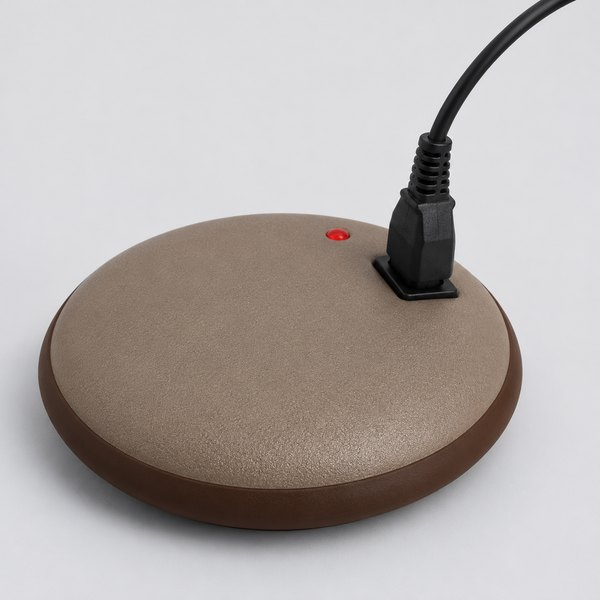
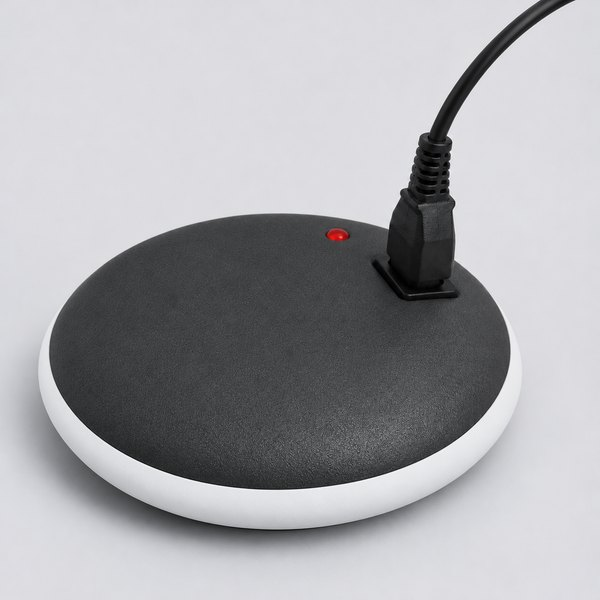
v3: cutout product images, realistic hotpack, image and copy edits

diff --git a/v3/index.html b/v3/index.html
@@ -1170,13 +1170,13 @@ section.ask-sec .hotglow{opacity:.55}
 section.ask-sec .play .hotglow{animation:ask-hp 3.2s ease-in-out infinite}
 @keyframes ask-hp{0%,100%{opacity:.35}50%{opacity:1}}
 section.ask-sec .skinheat{opacity:0}
-section.ask-sec .play .skinheat{animation:ask-sh 6s ease-in-out infinite}
-@keyframes ask-sh{0%{opacity:0}25%,55%{opacity:1}85%,100%{opacity:.1}}
+section.ask-sec .play .skinheat{animation:ask-sh .5s ease-in-out infinite}
+@keyframes ask-sh{0%,100%{opacity:0}50%{opacity:1}}
 section.ask-sec .wave{stroke-dasharray:6 10;opacity:0}
 section.ask-sec .play .wave{opacity:.9;animation:ask-wv 1.4s linear infinite}
 @keyframes ask-wv{to{stroke-dashoffset:-32}}
 section.ask-sec .deep{opacity:0}
-section.ask-sec .play .deep{animation:ask-dp 6s ease-in-out infinite}
+section.ask-sec .play .deep{animation:ask-sh .5s ease-in-out infinite}
 @keyframes ask-dp{0%{opacity:.05}45%,100%{opacity:1}}
 section.ask-sec .coldtxt{font-size:11px;font-weight:700;fill:#4F7499}
 section.ask-sec .warmtxt{font-size:11px;font-weight:800;fill:#fff}
@@ -1365,7 +1365,7 @@ section.life-sec{aspect-ratio:auto;min-height:calc(min(100vw,480px)*1.6);padding
 /* ===== v2 additions ===== */
 section.ask-sec .lead.lead-em{margin:-30px 0 60px;color:#fff;font-size:22px;font-weight:700}
 section.ask-sec .ask-foot{margin-top:6px;padding:0 16px;text-align:center;font-size:13px;line-height:1.7;color:#8A8A8A}
-.up1-sec .u1-fn{order:4;align-self:center;margin-top:8px;text-align:center;font-size:12.5px;line-height:1.6;color:#8A8A8A;word-break:keep-all}
+.up1-sec .u1-fn{order:3;align-self:center;margin-top:8px;text-align:center;font-size:12.5px;line-height:1.6;color:#8A8A8A;word-break:keep-all}
 .step-sec .sk-msg{margin-top:16px;font-size:14px;line-height:1.75;color:#555;word-break:keep-all}
 .step-sec .sk-msg b{color:#111}
 .cause-body.cb-small{margin-top:12px;font-size:12.5px;color:#8A8A8A}
@@ -1389,6 +1389,11 @@ section.ask-sec .ask-foot{margin-top:6px;padding:0 16px;text-align:center;font-s
 .qna-list .card p + p{margin-top:8px}
 
 /* ===== v3 additions ===== */
+.cause-sec .cz-nk img[src*="nk_pack"],.cause-sec .cz-nk img[src*="nk_core"],.cause-sec .cz-nk img[src*="nk_mat"]{height:auto;width:210px;top:4px}
+.cause-sec .cz-nk img[src*="nk_charge3"]{width:185px;top:-2px}
+.cause-sec .cz-nk img[src*="nk_pack"]{width:225px;top:20px}
+.cause-sec .cz-nk img[src*="nk_mat"]{width:235px;top:14px}
+.cause-sec .cz-head .cz-nk img[src*="nk_hotpack2"]{width:140px;left:6px;top:4px}
 .how-steps{margin-top:12px;text-align:center;font-size:16px;font-weight:700;color:var(--text-black);letter-spacing:-.02em}
 .how-txt h3 small{font-size:15px;font-weight:500;color:var(--text-gray)}
 .spic-sec .sp-tag,.sp-item .sp-tag{margin-top:6px;display:inline-block;padding:3px 9px;border:1px solid rgba(255,255,255,.55);border-radius:20px;font-size:11px;font-weight:700;color:#fff}
@@ -1490,7 +1495,7 @@ section.ask-sec .ask-foot{margin-top:16px;color:rgba(255,255,255,.7)}
     <svg viewBox="0 0 440 330" aria-label="왼쪽은 뜨거운 핫팩이 피부 겉면만 데우고 심부는 그대로인 모습, 오른쪽은 발열이 없는 마이온도 밴드에서 원적외선이 심부까지 전해져 심부가 따뜻해지는 모습의 개념도">
       <defs>
         <linearGradient id="skinHot" x1="0" y1="0" x2="0" y2="1"><stop offset="0" stop-color="#E5322B" stop-opacity=".95"/><stop offset=".75" stop-color="#E5322B" stop-opacity=".88"/><stop offset="1" stop-color="#E5322B" stop-opacity="0"/></linearGradient>
-        <filter id="askMute"><feColorMatrix type="saturate" values=".08"/><feComponentTransfer><feFuncR type="linear" slope=".85" intercept=".1"/><feFuncG type="linear" slope=".85" intercept=".1"/><feFuncB type="linear" slope=".85" intercept=".1"/></feComponentTransfer></filter>
+        <filter id="askMute"><feColorMatrix type="saturate" values=".4"/><feComponentTransfer><feFuncR type="linear" slope=".9" intercept=".06"/><feFuncG type="linear" slope=".9" intercept=".06"/><feFuncB type="linear" slope=".9" intercept=".06"/></feComponentTransfer></filter>
         <radialGradient id="glow"><stop offset="0" stop-color="#FF7A45" stop-opacity=".9"/><stop offset="1" stop-color="#FF7A45" stop-opacity="0"/></radialGradient>
         <radialGradient id="deepWarm" cx=".5" cy=".55" r=".75"><stop offset="0" stop-color="#F0483A"/><stop offset=".7" stop-color="#E5322B" stop-opacity=".95"/><stop offset="1" stop-color="#D02A26" stop-opacity=".9"/></radialGradient>
         <linearGradient id="epiG" x1="0" y1="0" x2="0" y2="1"><stop offset="0" stop-color="#F8E3D8"/><stop offset="1" stop-color="#EFC6B5"/></linearGradient>
@@ -1893,27 +1898,27 @@ section.ask-sec .ask-foot{margin-top:16px;color:rgba(255,255,255,.7)}
 </section>
 <section class="cause-sec">
   <div class="cz-card rv-up">
-    <div class="cz-head"><h3>물주머니는</h3><span class="cz-nk cz-ph"><img src="img/cz_water.jpg" alt="빨간 고무 물주머니" loading="lazy"></span></div>
+    <div class="cz-head"><h3>물주머니는</h3><span class="cz-nk"><img src="img/nk_water3.png" alt="베이지 실리콘 물주머니" loading="lazy"></span></div>
     <div class="cz-row"><div class="cz-txt"><svg class="zi" viewBox="0 0 48 48" fill="none" stroke="currentColor" stroke-width="1.4" stroke-linecap="round" stroke-linejoin="round" aria-hidden="true"><path d="M20.5 31.2V9.5a3.5 3.5 0 0 1 7 0v21.7a7.2 7.2 0 1 1-7 0z"/><path d="M28 13h2.2M28 17h1.4M28 21h2.2M28 25h1.4" stroke-width="1"/><path d="M22.2 10v10" stroke-width=".8" opacity=".45"/><rect class="zi-merc" x="23" y="13" width="2" height="22" rx="1" fill="currentColor" stroke="none"/><circle cx="24" cy="37" r="4.4" fill="currentColor" stroke="none"/><circle cx="22.6" cy="35.6" r="1.1" fill="#fff" stroke="none" opacity=".55"/><path class="zi-down" d="M38 13v12m-3.2-3.2L38 25l3.2-3.2"/></svg><p class="cz-q">“물 끓여서 담고 버리는 과정이 번거로웠어요”</p><span class="cz-src">11번가 구매 후기</span></div></div>
   </div>
   <div class="cz-card cz-r rv-up">
-    <div class="cz-head"><h3>찜질팩은</h3><span class="cz-nk cz-ph"><img src="img/cz_pack.jpg" alt="전자레인지용 찜질팩" loading="lazy"></span></div>
+    <div class="cz-head"><h3>찜질팩은</h3><span class="cz-nk"><img src="img/nk_pack.png" alt="전자레인지용 찜질팩" loading="lazy"></span></div>
     <div class="cz-row"><div class="cz-txt"><svg class="zi" viewBox="0 0 48 48" fill="none" stroke="currentColor" stroke-width="1.4" stroke-linecap="round" stroke-linejoin="round" aria-hidden="true"><path d="M20.5 31.2V9.5a3.5 3.5 0 0 1 7 0v21.7a7.2 7.2 0 1 1-7 0z"/><path d="M28 13h2.2M28 17h1.4M28 21h2.2M28 25h1.4" stroke-width="1"/><path d="M22.2 10v10" stroke-width=".8" opacity=".45"/><rect class="zi-merc" x="23" y="13" width="2" height="22" rx="1" fill="currentColor" stroke="none"/><circle cx="24" cy="37" r="4.4" fill="currentColor" stroke="none"/><circle cx="22.6" cy="35.6" r="1.1" fill="#fff" stroke="none" opacity=".55"/><path class="zi-down" d="M38 13v12m-3.2-3.2L38 25l3.2-3.2"/></svg><p class="cz-q">“데워 봐야 금방 식어서, 전자레인지를 몇 번씩 왔다 갔다 해요”</p><span class="cz-src">찜질팩 구매 후기 재구성</span></div></div>
   </div>
   <div class="cz-card rv-up">
-    <div class="cz-head"><h3>충전식 온열기는</h3><span class="cz-nk cz-ph"><img src="img/cz_charge.jpg" alt="충전식 온열기" loading="lazy"></span></div>
+    <div class="cz-head"><h3>충전식 온열기는</h3><span class="cz-nk"><img src="img/nk_charge3.png" alt="충전식 온열기" loading="lazy"></span></div>
     <div class="cz-row"><div class="cz-txt"><svg class="zi" viewBox="0 0 48 48" fill="none" stroke="currentColor" stroke-width="1.4" stroke-linecap="round" stroke-linejoin="round" aria-hidden="true"><path d="M20.5 31.2V9.5a3.5 3.5 0 0 1 7 0v21.7a7.2 7.2 0 1 1-7 0z"/><path d="M28 13h2.2M28 17h1.4M28 21h2.2M28 25h1.4" stroke-width="1"/><path d="M22.2 10v10" stroke-width=".8" opacity=".45"/><rect class="zi-merc" x="23" y="13" width="2" height="22" rx="1" fill="currentColor" stroke="none"/><circle cx="24" cy="37" r="4.4" fill="currentColor" stroke="none"/><circle cx="22.6" cy="35.6" r="1.1" fill="#fff" stroke="none" opacity=".55"/><path class="zi-down" d="M38 13v12m-3.2-3.2L38 25l3.2-3.2"/></svg><p class="cz-q">“계속 충전해야 하는 게 번거롭고, 들고 다니기 무거워요”</p><span class="cz-src">찜질기 사용 후기 재구성</span></div></div>
   </div>
   <div class="cz-card cz-r rv-up">
-    <div class="cz-head"><h3>전기형 찜질매트는</h3><span class="cz-nk cz-ph"><img src="img/cz_mat.jpg" alt="전기 찜질매트를 배에 두르고 누운 모습" loading="lazy"></span></div>
+    <div class="cz-head"><h3>전기형 찜질매트는</h3><span class="cz-nk"><img src="img/nk_mat.png" alt="전원선이 달린 전기 찜질매트" loading="lazy"></span></div>
     <div class="cz-row"><div class="cz-txt"><svg class="zi" viewBox="0 0 48 48" fill="none" stroke="currentColor" stroke-width="1.4" stroke-linecap="round" stroke-linejoin="round" aria-hidden="true"><path d="M20.5 31.2V9.5a3.5 3.5 0 0 1 7 0v21.7a7.2 7.2 0 1 1-7 0z"/><path d="M28 13h2.2M28 17h1.4M28 21h2.2M28 25h1.4" stroke-width="1"/><path d="M22.2 10v10" stroke-width=".8" opacity=".45"/><rect class="zi-merc" x="23" y="13" width="2" height="22" rx="1" fill="currentColor" stroke="none"/><circle cx="24" cy="37" r="4.4" fill="currentColor" stroke="none"/><circle cx="22.6" cy="35.6" r="1.1" fill="#fff" stroke="none" opacity=".55"/><path class="zi-down" d="M38 13v12m-3.2-3.2L38 25l3.2-3.2"/></svg><p class="cz-q">“콘센트 전선 때문에 일하거나 집안일할 때 못 쓰고, 침대에서만 쓰게 돼요”</p><span class="cz-src">찜질기 사용 후기 재구성</span></div></div>
   </div>
   <div class="cz-card rv-up">
-    <div class="cz-head"><h3>일회용 핫팩은</h3><span class="cz-nk cz-ph"><img src="img/cz_hotpack.jpg" alt="일회용 핫팩" loading="lazy"></span></div>
+    <div class="cz-head"><h3>일회용 핫팩은</h3><span class="cz-nk"><img src="img/nk_hotpack2.png" alt="일회용 핫팩" loading="lazy"></span></div>
     <div class="cz-row"><div class="cz-txt"><svg class="zi" viewBox="0 0 48 48" fill="none" stroke="currentColor" stroke-width="1.4" stroke-linecap="round" stroke-linejoin="round" aria-hidden="true"><path d="M20.5 31.2V9.5a3.5 3.5 0 0 1 7 0v21.7a7.2 7.2 0 1 1-7 0z"/><path d="M28 13h2.2M28 17h1.4M28 21h2.2M28 25h1.4" stroke-width="1"/><path d="M22.2 10v10" stroke-width=".8" opacity=".45"/><rect class="zi-merc" x="23" y="13" width="2" height="22" rx="1" fill="currentColor" stroke="none"/><circle cx="24" cy="37" r="4.4" fill="currentColor" stroke="none"/><circle cx="22.6" cy="35.6" r="1.1" fill="#fff" stroke="none" opacity=".55"/><path class="zi-down" d="M38 13v12m-3.2-3.2L38 25l3.2-3.2"/></svg><p class="cz-q">“이게 하루에 하나씩 쓰다 보니까 쓰레기 양이 많더라고요. 그리고 저온 화상이 걱정돼요”</p><span class="cz-src">손난로 구매 후기 재구성</span></div></div>
   </div>
   <div class="cz-card cz-r rv-up">
-    <div class="cz-head"><h3>심부 발열기는</h3><span class="cz-nk cz-ph"><img src="img/cz_core.jpg" alt="발 온열기" loading="lazy"></span></div>
+    <div class="cz-head"><h3>심부 발열기는</h3><span class="cz-nk"><img src="img/nk_core.png" alt="발 온열기" loading="lazy"></span></div>
     <div class="cz-row"><div class="cz-txt"><svg class="zi" viewBox="0 0 48 48" fill="none" stroke="currentColor" stroke-width="1.4" stroke-linecap="round" stroke-linejoin="round" aria-hidden="true"><path d="M20.5 31.2V9.5a3.5 3.5 0 0 1 7 0v21.7a7.2 7.2 0 1 1-7 0z"/><path d="M28 13h2.2M28 17h1.4M28 21h2.2M28 25h1.4" stroke-width="1"/><path d="M22.2 10v10" stroke-width=".8" opacity=".45"/><rect class="zi-merc" x="23" y="13" width="2" height="22" rx="1" fill="currentColor" stroke="none"/><circle cx="24" cy="37" r="4.4" fill="currentColor" stroke="none"/><circle cx="22.6" cy="35.6" r="1.1" fill="#fff" stroke="none" opacity=".55"/><path class="zi-down" d="M38 13v12m-3.2-3.2L38 25l3.2-3.2"/></svg><p class="cz-q">“심부를 올려 준다고 해서 비싸게 샀는데, 사용이 불편해서 손이 잘 안 가요”</p></div></div>
   </div>
   
@@ -1951,7 +1956,7 @@ section.ask-sec .ask-foot{margin-top:16px;color:rgba(255,255,255,.7)}
   </div>
 
   <div class="burn rv-up" data-play>
-    <svg class="bfig bx" viewBox="0 0 400 300" role="img" aria-label="뜨거운 온열 제품의 높은 열이 피부 겉면에서 멈춰 겉면에만 화상이 생기고, 심부는 그대로인 모습의 개념도" font-family="Pretendard,sans-serif"><defs><linearGradient id="bxHot" x1="0" x2="1"><stop offset="0" stop-color="#FF7A45"/><stop offset=".6" stop-color="#E8484F"/><stop offset="1" stop-color="#B8323F"/></linearGradient><linearGradient id="bxBurn" x1="1" x2="0"><stop offset="0" stop-color="#D62E2E" stop-opacity=".8"/><stop offset=".4" stop-color="#FF5A3D" stop-opacity=".4"/><stop offset="1" stop-color="#FF5A3D" stop-opacity="0"/></linearGradient><linearGradient id="bxCool" x1="0" x2="1"><stop offset="0" stop-color="#7FA6CC" stop-opacity=".55"/><stop offset=".8" stop-color="#7FA6CC" stop-opacity=".25"/><stop offset="1" stop-color="#7FA6CC" stop-opacity="0"/></linearGradient></defs><rect width="400" height="300" fill="url(#hAir)"/><g clip-path="url(#hBody)"><use href="#hTissue" x="0" y="0" width="400" height="300"/><rect class="bxc" x="0" y="0" width="160" height="300" fill="url(#bxCool)"/><rect class="bxb" x="140" y="0" width="80" height="300" fill="url(#bxBurn)"/><ellipse class="bxbl" style="animation-delay:0.00s" cx="200" cy="40" rx="9" ry="16" fill="#6E1520" opacity=".45"/><ellipse class="bxbl" style="animation-delay:0.10s" cx="200" cy="86" rx="9" ry="16" fill="#6E1520" opacity=".45"/><ellipse class="bxbl" style="animation-delay:0.20s" cx="200" cy="132" rx="9" ry="16" fill="#6E1520" opacity=".45"/><ellipse class="bxbl" style="animation-delay:0.30s" cx="200" cy="178" rx="9" ry="16" fill="#6E1520" opacity=".45"/><ellipse class="bxbl" style="animation-delay:0.40s" cx="200" cy="224" rx="9" ry="16" fill="#6E1520" opacity=".45"/><ellipse class="bxbl" style="animation-delay:0.50s" cx="200" cy="270" rx="9" ry="16" fill="#6E1520" opacity=".45"/></g><path d="M214 0 C220 60 210 120 216 180 C222 240 212 280 216 300" stroke="#F6CDBE" stroke-width="7" fill="none"/><path d="M214 0 C220 60 210 120 216 180 C222 240 212 280 216 300" stroke="#C97F70" stroke-width="1.2" fill="none" transform="translate(3.5 0)"/><g><ellipse class="bxbl" style="animation-delay:0.00s" cx="205" cy="24" rx="5" ry="12" fill="rgba(255,240,225,.85)" stroke="#B8323F" stroke-width="1"/><ellipse class="bxbl" style="animation-delay:0.08s" cx="206" cy="57" rx="5" ry="8" fill="rgba(255,240,225,.85)" stroke="#B8323F" stroke-width="1"/><ellipse class="bxbl" style="animation-delay:0.16s" cx="203" cy="82" rx="6" ry="12" fill="rgba(255,240,225,.85)" stroke="#B8323F" stroke-width="1"/><ellipse class="bxbl" style="animation-delay:0.24s" cx="203" cy="115" rx="5" ry="12" fill="rgba(255,240,225,.85)" stroke="#B8323F" stroke-width="1"/><ellipse class="bxbl" style="animation-delay:0.32s" cx="205" cy="149" rx="6" ry="8" fill="rgba(255,240,225,.85)" stroke="#B8323F" stroke-width="1"/><ellipse class="bxbl" style="animation-delay:0.40s" cx="205" cy="172" rx="5" ry="8" fill="rgba(255,240,225,.85)" stroke="#B8323F" stroke-width="1"/><ellipse class="bxbl" style="animation-delay:0.48s" cx="205" cy="211" rx="6" ry="8" fill="rgba(255,240,225,.85)" stroke="#B8323F" stroke-width="1"/><ellipse class="bxbl" style="animation-delay:0.56s" cx="205" cy="233" rx="6" ry="12" fill="rgba(255,240,225,.85)" stroke="#B8323F" stroke-width="1"/><ellipse class="bxbl" style="animation-delay:0.64s" cx="203" cy="266" rx="7" ry="10" fill="rgba(255,240,225,.85)" stroke="#B8323F" stroke-width="1"/></g><g filter="url(#hGlow)"><circle class="bxp" style="animation-delay:0.00s" cx="230" cy="22" r="3.6" fill="#FF6A3D"/><circle class="bxp" style="animation-delay:0.37s" cx="230" cy="44" r="3.6" fill="#FF6A3D"/><circle class="bxp" style="animation-delay:0.74s" cx="230" cy="66" r="3.6" fill="#FF6A3D"/><circle class="bxp" style="animation-delay:1.11s" cx="230" cy="88" r="3.6" fill="#FF6A3D"/><circle class="bxp" style="animation-delay:1.48s" cx="230" cy="110" r="3.6" fill="#FF6A3D"/><circle class="bxp" style="animation-delay:0.25s" cx="230" cy="132" r="3.6" fill="#FF6A3D"/><circle class="bxp" style="animation-delay:0.62s" cx="230" cy="154" r="3.6" fill="#FF6A3D"/><circle class="bxp" style="animation-delay:0.99s" cx="230" cy="176" r="3.6" fill="#FF6A3D"/><circle class="bxp" style="animation-delay:1.36s" cx="230" cy="198" r="3.6" fill="#FF6A3D"/><circle class="bxp" style="animation-delay:0.13s" cx="230" cy="220" r="3.6" fill="#FF6A3D"/><circle class="bxp" style="animation-delay:0.50s" cx="230" cy="242" r="3.6" fill="#FF6A3D"/><circle class="bxp" style="animation-delay:0.87s" cx="230" cy="264" r="3.6" fill="#FF6A3D"/><circle class="bxp" style="animation-delay:1.24s" cx="230" cy="286" r="3.6" fill="#FF6A3D"/></g><image href="img/nk_hotpack.png" x="219" y="24" width="90" height="256" preserveAspectRatio="none"/><g font-size="36" font-weight="900" fill="#24141A" text-anchor="middle"><text x="264" y="140">핫</text><text x="264" y="184">팩</text></g><g stroke="#FF7A45" stroke-width="2" fill="none" stroke-linecap="round" class="bhr"><path d="M322 130c5-4-5-8 0-13"/><path d="M322 170c5-4-5-8 0-13"/><path d="M322 210c5-4-5-8 0-13"/></g><g class="bxt"><rect x="90" y="30" width="108" height="32" rx="16" fill="#24141A"/><path d="M110 38.5l-6.3 11a1.4 1.4 0 0 0 1.2 2.1h12.6a1.4 1.4 0 0 0 1.2-2.1l-6.3-11a1.4 1.4 0 0 0-2.4 0Z" fill="#fff"/><path d="M111.2 42.5v4M111.2 49.3v.1" stroke="#24141A" stroke-width="1.6" stroke-linecap="round"/><text x="125" y="51" font-size="13" font-weight="800" fill="#fff">피부 화상</text></g><g class="bxk"><rect x="14" y="186" width="124" height="28" rx="14" fill="#1E2A38" fill-opacity=".8"/><text x="76" y="204.5" text-anchor="middle" font-size="11.5" font-weight="800" fill="#fff">심부는 그대로</text></g><g font-size="10.5" font-weight="700" fill="#3B2A2E"><path d="M207 16 L316 16" stroke="#7B6A6E" stroke-width=".8" stroke-dasharray="2 2"/><text x="319" y="19">표피</text><path d="M300 76 L316 76" stroke="#7B6A6E" stroke-width=".8" stroke-dasharray="2 2"/><text x="319" y="74">아주 높은 열</text><text x="319" y="88" font-weight="500" fill="#7A6C71">핫팩·찜질기</text></g></svg>
+    <svg class="bfig bx" viewBox="0 0 400 300" role="img" aria-label="뜨거운 온열 제품의 높은 열이 피부 겉면에서 멈춰 겉면에만 화상이 생기고, 심부는 그대로인 모습의 개념도" font-family="Pretendard,sans-serif"><defs><linearGradient id="bxHot" x1="0" x2="1"><stop offset="0" stop-color="#FF7A45"/><stop offset=".6" stop-color="#E8484F"/><stop offset="1" stop-color="#B8323F"/></linearGradient><linearGradient id="bxBurn" x1="1" x2="0"><stop offset="0" stop-color="#D62E2E" stop-opacity=".8"/><stop offset=".4" stop-color="#FF5A3D" stop-opacity=".4"/><stop offset="1" stop-color="#FF5A3D" stop-opacity="0"/></linearGradient><linearGradient id="bxCool" x1="0" x2="1"><stop offset="0" stop-color="#7FA6CC" stop-opacity=".55"/><stop offset=".8" stop-color="#7FA6CC" stop-opacity=".25"/><stop offset="1" stop-color="#7FA6CC" stop-opacity="0"/></linearGradient></defs><rect width="400" height="300" fill="url(#hAir)"/><g clip-path="url(#hBody)"><use href="#hTissue" x="0" y="0" width="400" height="300"/><rect class="bxc" x="0" y="0" width="160" height="300" fill="url(#bxCool)"/><rect class="bxb" x="140" y="0" width="80" height="300" fill="url(#bxBurn)"/><ellipse class="bxbl" style="animation-delay:0.00s" cx="200" cy="40" rx="9" ry="16" fill="#6E1520" opacity=".45"/><ellipse class="bxbl" style="animation-delay:0.10s" cx="200" cy="86" rx="9" ry="16" fill="#6E1520" opacity=".45"/><ellipse class="bxbl" style="animation-delay:0.20s" cx="200" cy="132" rx="9" ry="16" fill="#6E1520" opacity=".45"/><ellipse class="bxbl" style="animation-delay:0.30s" cx="200" cy="178" rx="9" ry="16" fill="#6E1520" opacity=".45"/><ellipse class="bxbl" style="animation-delay:0.40s" cx="200" cy="224" rx="9" ry="16" fill="#6E1520" opacity=".45"/><ellipse class="bxbl" style="animation-delay:0.50s" cx="200" cy="270" rx="9" ry="16" fill="#6E1520" opacity=".45"/></g><path d="M214 0 C220 60 210 120 216 180 C222 240 212 280 216 300" stroke="#F6CDBE" stroke-width="7" fill="none"/><path d="M214 0 C220 60 210 120 216 180 C222 240 212 280 216 300" stroke="#C97F70" stroke-width="1.2" fill="none" transform="translate(3.5 0)"/><g><ellipse class="bxbl" style="animation-delay:0.00s" cx="205" cy="24" rx="5" ry="12" fill="rgba(255,240,225,.85)" stroke="#B8323F" stroke-width="1"/><ellipse class="bxbl" style="animation-delay:0.08s" cx="206" cy="57" rx="5" ry="8" fill="rgba(255,240,225,.85)" stroke="#B8323F" stroke-width="1"/><ellipse class="bxbl" style="animation-delay:0.16s" cx="203" cy="82" rx="6" ry="12" fill="rgba(255,240,225,.85)" stroke="#B8323F" stroke-width="1"/><ellipse class="bxbl" style="animation-delay:0.24s" cx="203" cy="115" rx="5" ry="12" fill="rgba(255,240,225,.85)" stroke="#B8323F" stroke-width="1"/><ellipse class="bxbl" style="animation-delay:0.32s" cx="205" cy="149" rx="6" ry="8" fill="rgba(255,240,225,.85)" stroke="#B8323F" stroke-width="1"/><ellipse class="bxbl" style="animation-delay:0.40s" cx="205" cy="172" rx="5" ry="8" fill="rgba(255,240,225,.85)" stroke="#B8323F" stroke-width="1"/><ellipse class="bxbl" style="animation-delay:0.48s" cx="205" cy="211" rx="6" ry="8" fill="rgba(255,240,225,.85)" stroke="#B8323F" stroke-width="1"/><ellipse class="bxbl" style="animation-delay:0.56s" cx="205" cy="233" rx="6" ry="12" fill="rgba(255,240,225,.85)" stroke="#B8323F" stroke-width="1"/><ellipse class="bxbl" style="animation-delay:0.64s" cx="203" cy="266" rx="7" ry="10" fill="rgba(255,240,225,.85)" stroke="#B8323F" stroke-width="1"/></g><g filter="url(#hGlow)"><circle class="bxp" style="animation-delay:0.00s" cx="230" cy="22" r="3.6" fill="#FF6A3D"/><circle class="bxp" style="animation-delay:0.37s" cx="230" cy="44" r="3.6" fill="#FF6A3D"/><circle class="bxp" style="animation-delay:0.74s" cx="230" cy="66" r="3.6" fill="#FF6A3D"/><circle class="bxp" style="animation-delay:1.11s" cx="230" cy="88" r="3.6" fill="#FF6A3D"/><circle class="bxp" style="animation-delay:1.48s" cx="230" cy="110" r="3.6" fill="#FF6A3D"/><circle class="bxp" style="animation-delay:0.25s" cx="230" cy="132" r="3.6" fill="#FF6A3D"/><circle class="bxp" style="animation-delay:0.62s" cx="230" cy="154" r="3.6" fill="#FF6A3D"/><circle class="bxp" style="animation-delay:0.99s" cx="230" cy="176" r="3.6" fill="#FF6A3D"/><circle class="bxp" style="animation-delay:1.36s" cx="230" cy="198" r="3.6" fill="#FF6A3D"/><circle class="bxp" style="animation-delay:0.13s" cx="230" cy="220" r="3.6" fill="#FF6A3D"/><circle class="bxp" style="animation-delay:0.50s" cx="230" cy="242" r="3.6" fill="#FF6A3D"/><circle class="bxp" style="animation-delay:0.87s" cx="230" cy="264" r="3.6" fill="#FF6A3D"/><circle class="bxp" style="animation-delay:1.24s" cx="230" cy="286" r="3.6" fill="#FF6A3D"/></g><image href="img/nk_hotpack_side.png" x="218" y="24" width="54" height="256"/><g stroke="#FF7A45" stroke-width="2" fill="none" stroke-linecap="round" class="bhr"><path d="M322 130c5-4-5-8 0-13"/><path d="M322 170c5-4-5-8 0-13"/><path d="M322 210c5-4-5-8 0-13"/></g><g class="bxt"><rect x="90" y="30" width="108" height="32" rx="16" fill="#24141A"/><path d="M110 38.5l-6.3 11a1.4 1.4 0 0 0 1.2 2.1h12.6a1.4 1.4 0 0 0 1.2-2.1l-6.3-11a1.4 1.4 0 0 0-2.4 0Z" fill="#fff"/><path d="M111.2 42.5v4M111.2 49.3v.1" stroke="#24141A" stroke-width="1.6" stroke-linecap="round"/><text x="125" y="51" font-size="13" font-weight="800" fill="#fff">피부 화상</text></g><g class="bxk"><rect x="14" y="186" width="124" height="28" rx="14" fill="#1E2A38" fill-opacity=".8"/><text x="76" y="204.5" text-anchor="middle" font-size="11.5" font-weight="800" fill="#fff">심부는 그대로</text></g><g font-size="10.5" font-weight="700" fill="#3B2A2E"><path d="M207 16 L316 16" stroke="#7B6A6E" stroke-width=".8" stroke-dasharray="2 2"/><text x="319" y="19">표피</text><path d="M300 76 L316 76" stroke="#7B6A6E" stroke-width=".8" stroke-dasharray="2 2"/><text x="319" y="74">아주 높은 열</text><text x="319" y="88" font-weight="500" fill="#7A6C71">핫팩·찜질기</text></g></svg>
   </div>
 
   <p class="end rv-up">마이온도는 4개국 특허 소재로 만들어<br><strong>피부는 안전하게, 속은 따뜻하게.</strong><br>이게 마이온도의 핵심 기술이에요.</p>
@@ -2540,7 +2545,7 @@ section.ask-sec .ask-foot{margin-top:16px;color:rgba(255,255,255,.7)}
 <!-- [10] 소재 구조 도해 -->
 <section class="spic-sec">
   <h2 class="section-title rv-up">버건디 도트에 담은<br><strong>7가지 소재</strong></h2>
-  <p class="sp-lead rv-up">마이온도 밴드는 <strong>네오플란 원단</strong> 위에 <strong>나노 바이오 융복합 기술(NBT)</strong>로 <strong>약 40여 가지 천연 광물</strong>을 융합한 도트를 촘촘히 올린 구조입니다. 그중 핵심이 되는 <strong>7가지 소재</strong>를 소개합니다.</p>
+  <p class="sp-lead rv-up">마이온도 밴드는 <strong>네오플란 원단</strong> 위에<br><strong>나노 바이오 융복합 기술(NBT)</strong>로 <strong>약 40여 가지 천연 광물</strong>을<br>융합한 도트를 촘촘히 올린 구조입니다.<br>그중 핵심이 되는 <strong>7가지 소재</strong>를 소개합니다.</p>
   <div class="sp-wrap">
     <div class="sp-figure" role="img" aria-label="펼쳐 세운 마이온도 원적외선 심부발열 밴드 안쪽 버건디 도트 면"></div>
     <svg class="sp-lines" aria-hidden="true"></svg>
@@ -2619,7 +2624,7 @@ section.ask-sec .ask-foot{margin-top:16px;color:rgba(255,255,255,.7)}
       <span class="cause-no">CHECK 03</span>
       <h3 class="cause-title">불편한 느낌이 들면<br>이렇게 해주세요</h3>
       <p class="cause-body">몸이 따뜻해지는 과정에서 나타날 수 있는 느낌이에요.</p>
-      <div class="cause-img"><img src="img/dot_logo.jpg" alt="마이온도 밴드 바깥면과 안쪽 버건디 도트"></div>
+      <div class="cause-img"><img src="img/dot_bed.jpg" alt="침대 위에 놓인 마이온도 밴드 바깥면과 안쪽 버건디 도트"></div>
       <div class="st-box">
   <div class="sk-card">
     <h3><svg viewBox="0 0 24 24" fill="none" stroke="#6B1530" stroke-width="2" stroke-linecap="round" stroke-linejoin="round"><circle cx="12" cy="12" r="9.5"/><path d="m7.5 12.2 3 3 6-6.2"/></svg>이런 경우 잠시 쉬었다가 착용해주세요</h3>
@@ -2638,7 +2643,7 @@ section.ask-sec .ask-foot{margin-top:16px;color:rgba(255,255,255,.7)}
       <div class="cause-img wave-img"><img src="img/wave.gif" alt="잔잔한 물 위로 퍼지는 물결" loading="lazy"></div>
       <p class="cause-body">밴드를 벗은 후에 착용 부위가 식었다고 느껴져도, <b>외부에서 추가적인 열 에너지(따뜻한 물)나 운동 에너지(운동·혈액순환)가 더해지면</b> 다시 온열감을 느낄 수 있습니다.</p>
       <div class="cause-img"><video src="img/v_rewarm.mp4" poster="img/v_rewarm.jpg" muted loop playsinline preload="none" aria-label="샤워와 운동 장면"></video></div>
-      <p class="cause-body cb-small">브랜드 안내에 따르면, 벗은 뒤 샤워나 운동을 할 때 따뜻함을 다시 느끼는 경우가 있습니다. 느끼지 못하는 분도 있으며, 지속 시간을 보장하지 않습니다.</p>
+      <p class="cause-body cb-small">체감 시점과 정도는 개인마다 다르며, 제품의 효과를 보장하지 않습니다.</p>
     </div>
   </div>
   <p class="note">체감 시점과 정도는 개인마다 다르며, 제품의 효과를 보장하지 않습니다.</p>
@@ -2700,10 +2705,10 @@ section.ask-sec .ask-foot{margin-top:16px;color:rgba(255,255,255,.7)}
   <h2 class="section-title rv-up">이렇게 두르면<br><strong>더 잘 느껴요</strong></h2>
   <p class="section-subtitle">오래 두른다고 더 따뜻한 게 아니에요.<br>1~2시간만 둘러도 온기가 최대 10시간까지 이어져요.<br>매일 꾸준히 두르는 게 핵심입니다.</p>
   <div class="rt-steps">
-    <div class="htu-step rv-up"><div class="htu-img"><img src="img/rt_1.jpg" alt="아침에 밴드를 맨살 허리에 두르는 모습" loading="lazy"></div><div><span class="htu-badge">아침</span><p class="htu-title">1~2시간 두르기</p><p class="htu-body"><b class="rt-who">온기가 느껴지시는 분</b>따뜻해진 후부터 1~2시간 정도 둘러 주세요.<b class="rt-who">아직 안 느껴지시는 분 (입문)</b>1~2시간 두르고 풀어도 괜찮아요. 더 두르고 싶은 날은 편한 만큼 두르셔도 돼요.</p></div></div>
-    <div class="htu-step rv-up"><div class="htu-img"><img src="img/rt_2.jpg" alt="책상 위에 벗어 둔 밴드" loading="lazy"></div><div><span class="htu-badge">낮</span><p class="htu-title">벗고 쉬기</p><p class="htu-body">오전에 착용했다면 온기가 아직 머물러 있어요. 잠시 벗고 쉬어도 좋아요.</p></div></div>
+    <div class="htu-step rv-up"><div class="htu-img"><img src="img/rt_1.jpg" alt="아침에 밴드를 맨살 허리에 두르는 모습" loading="lazy"></div><div><span class="htu-badge">아침</span><p class="htu-title">1~2시간 두르기</p><p class="htu-body"><b class="rt-who">온기가 느껴지시는 분</b>따뜻해진 후부터 1~2시간 정도 둘러 주세요.<b class="rt-who">아직 안 느껴지시는 분 (입문)</b>1~2시간 두르고 풀어도 괜찮아요.<br>더 두르고 싶은 날은 편한 만큼 두르셔도 돼요.</p></div></div>
+    <div class="htu-step rv-up"><div class="htu-img"><img src="img/rt_2.jpg" alt="책상 위에 벗어 둔 밴드" loading="lazy"></div><div><span class="htu-badge">낮</span><p class="htu-title">벗고 쉬기</p><p class="htu-body">오전에 착용했다면 온기가 아직 머물러 있어요.<br>잠시 벗고 쉬어도 좋아요.</p></div></div>
     <div class="htu-step rv-up"><div class="htu-img"><img src="img/rt_3.jpg" alt="저녁에 밴드를 두르고 소파에서 쉬는 모습" loading="lazy"></div><div><span class="htu-badge">저녁 · 잠들기 전</span><p class="htu-title">1~2시간 두르기</p><p class="htu-body">잠들기 전 1~2시간 둘러 주세요.</p></div></div>
-    <div class="htu-step rv-up"><div class="htu-img"><img src="img/rt_4.jpg" alt="잠들기 전 협탁 위에 벗어 둔 밴드" loading="lazy"></div><div><span class="htu-badge">잘 때</span><p class="htu-title">벗고 주무세요</p><p class="htu-body">잘 때는 벗고 편하게 주무세요. 벗은 뒤에도 온기는 이어지고, 체온만큼 숙면도 중요하니까요.</p></div></div>
+    <div class="htu-step rv-up"><div class="htu-img"><img src="img/rt_4.jpg" alt="잠들기 전 협탁 위에 벗어 둔 밴드" loading="lazy"></div><div><span class="htu-badge">잘 때</span><p class="htu-title">벗고 주무세요</p><p class="htu-body">잘 때는 벗고 편하게 주무세요.<br>벗은 뒤에도 온기는 이어지고,<br>체온만큼 숙면도 중요하니까요.</p></div></div>
   </div>
   <div class="rt-rules">
     <div class="card htu-warn rt-rule rv-up"><h3><svg viewBox="0 0 24 24" fill="none" stroke="#6B1530" stroke-width="1.8" stroke-linecap="round" stroke-linejoin="round"><path d="M4 12a8 8 0 1 0 2.4-5.7M4 4v4h4"/></svg>덜 느껴지면, 잠시 쉬었다 다시</h3><p>오래 두르면 몸이 온기에 익숙해져 덜 느껴질 수 있어요. 냉탕에서 온탕에 들어가면 곧 익숙해지는 것과 같아요.</p></div>
